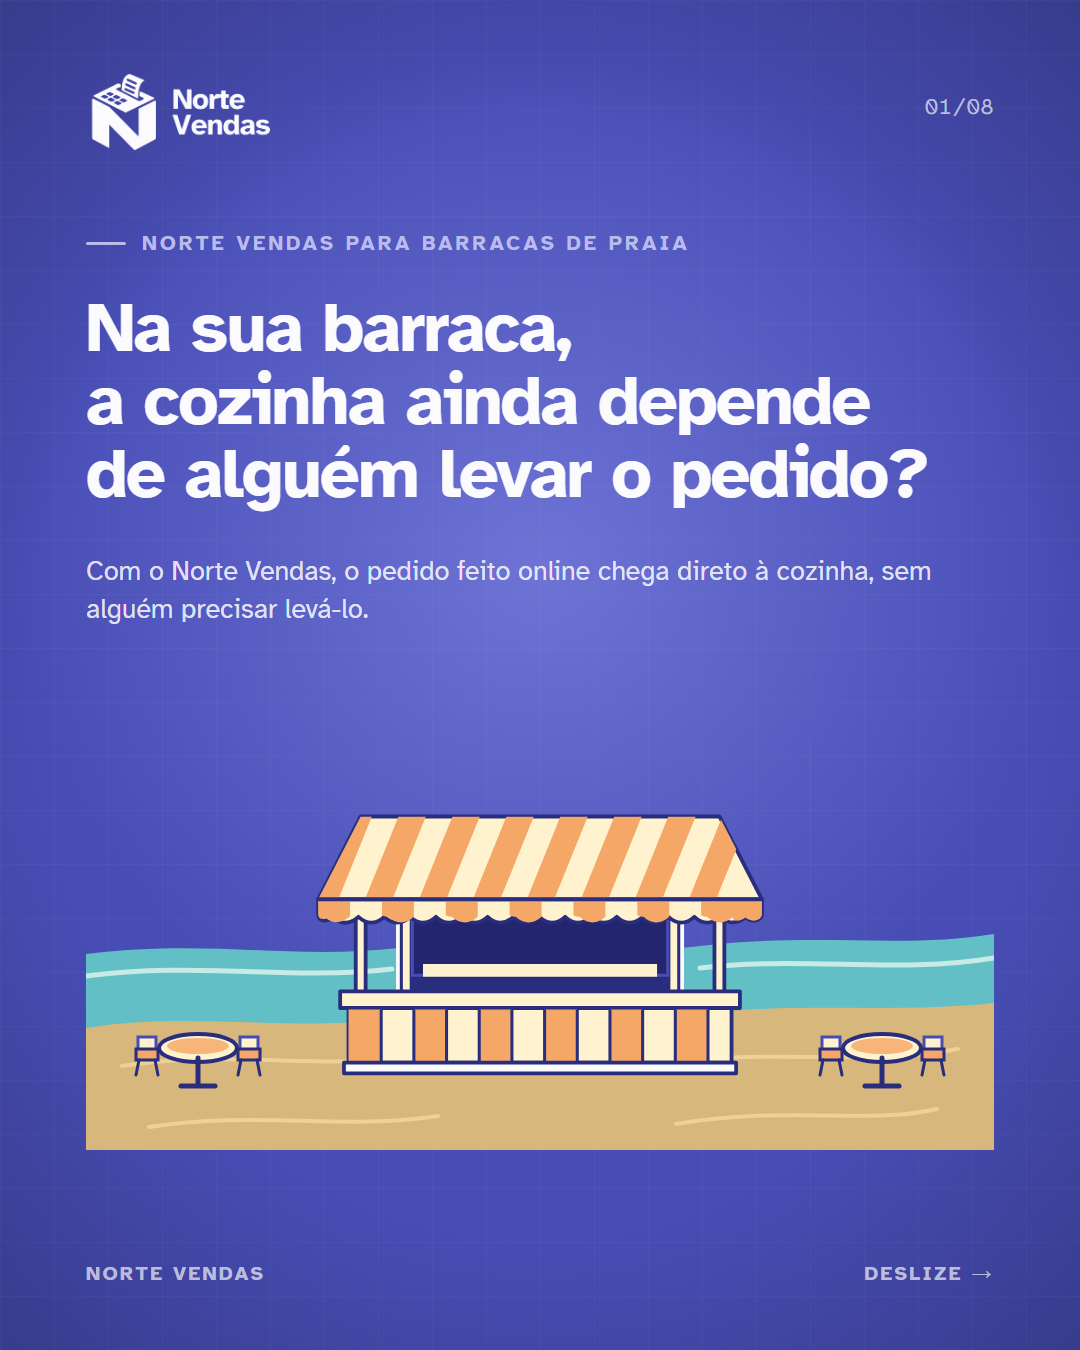
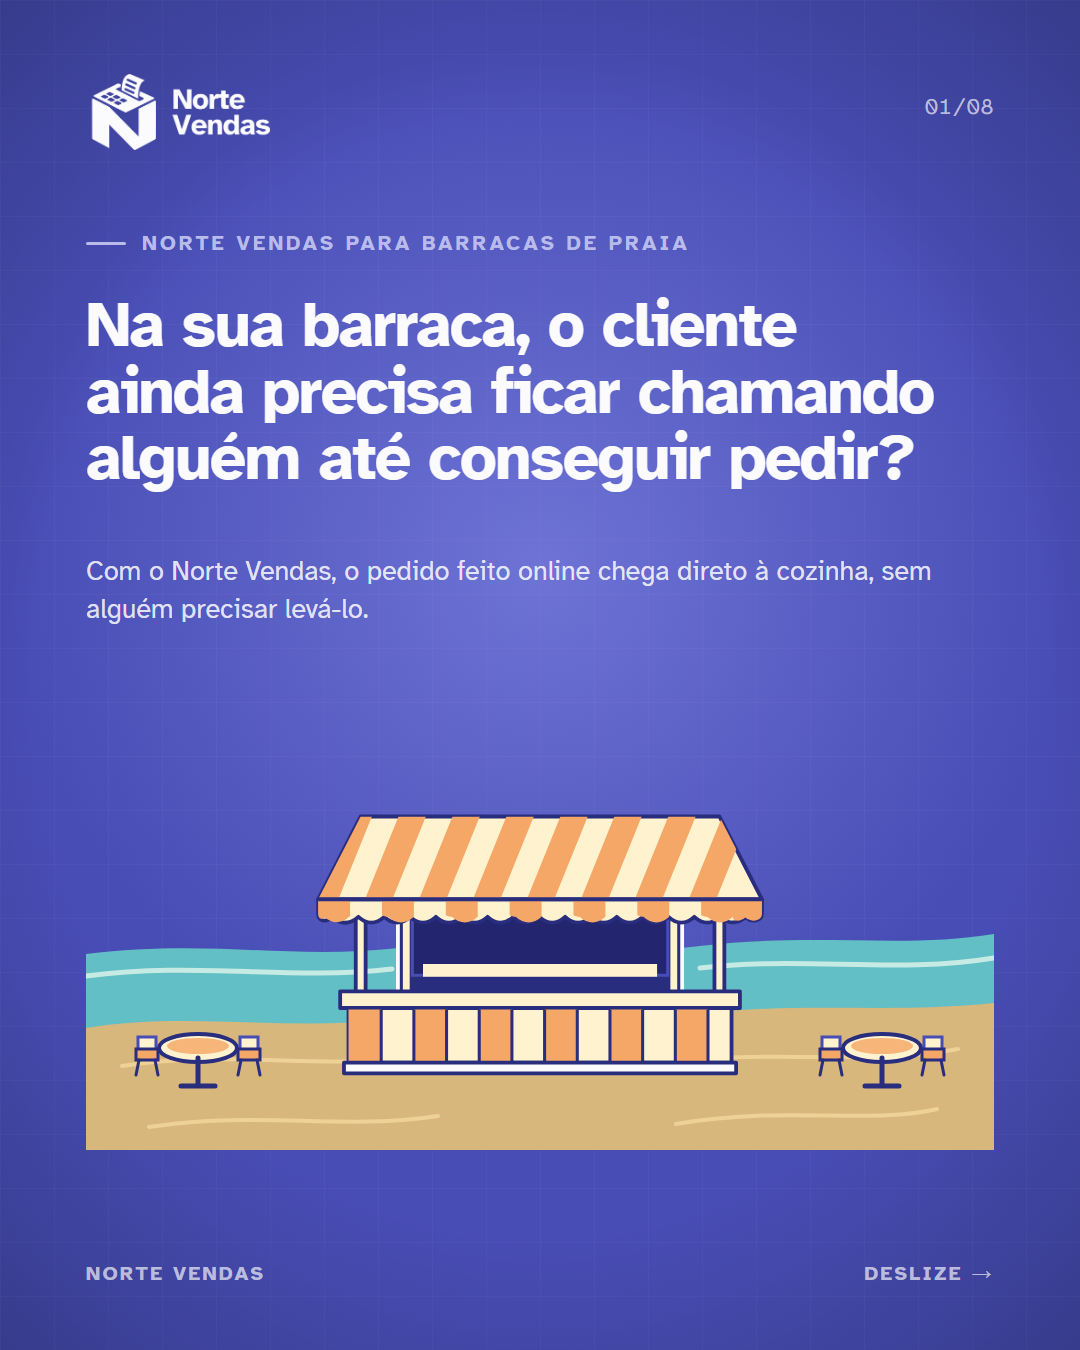
Atualiza gancho da capa para barracas de praia

Changed region(s): [[0.0611, 0.2178, 0.8861, 0.3733]]

diff --git a/src/templates/NorteVendasBarracaPraia.tsx b/src/templates/NorteVendasBarracaPraia.tsx
@@ -180,8 +180,8 @@ const CoverScene: React.FC = () => {
     <Img src={SALES_LOGO} style={{position: 'absolute', left: PAD, top: 74, height: 76, width: 'auto'}} />
     <span style={{position: 'absolute', right: PAD, top: 92, fontFamily: MONO, fontSize: 22, color: mute('product')}}>01/08</span>
     <Eyebrow tone="product" top={230}>Norte Vendas para barracas de praia</Eyebrow>
-    <h1 style={{position: 'absolute', left: PAD, right: PAD, top: 292, margin: 0, fontFamily: SANS, fontWeight: 700, fontSize: 70, lineHeight: 1.04, letterSpacing: -1.75, color: WHITE}}>
-      Na sua barraca,<br />a cozinha ainda depende<br />de alguém levar o pedido?
+    <h1 style={{position: 'absolute', left: PAD, right: PAD, top: 292, margin: 0, fontFamily: SANS, fontWeight: 700, fontSize: 64, lineHeight: 1.04, letterSpacing: -1.6, color: WHITE}}>
+      Na sua barraca, o cliente<br />ainda precisa ficar chamando<br />alguém até conseguir pedir?
     </h1>
     <p style={{position: 'absolute', left: PAD, top: 552, width: 890, margin: 0, fontFamily: SANS, fontSize: 27, lineHeight: 1.42, color: 'rgba(251,251,254,.86)'}}>
       Com o Norte Vendas, o pedido feito online chega direto à cozinha, sem alguém precisar levá-lo.

diff --git a/conteudo ntb/02-carrosseis/Norte Vendas - Barraca de Praia/LEIA-ME.md b/conteudo ntb/02-carrosseis/Norte Vendas - Barraca de Praia/LEIA-ME.md
@@ -4,7 +4,7 @@ Carrossel de oito slides para donos de barracas. A narrativa parte do gancho apr
 
 ## Ordem dos slides
 
-1. Capa estática, no fundo azul quadriculado, com barraca vetorial menor, balcão aberto, toldo listrado em creme e laranja e mesas com cadeiras ao redor. O gancho pergunta se a cozinha ainda depende de alguém levar o pedido; a subheadline responde que o pedido online chega direto à cozinha.
+1. Capa estática, no fundo azul quadriculado, com barraca vetorial menor, balcão aberto, toldo listrado em creme e laranja e mesas com cadeiras ao redor. O gancho aborda o cliente que precisa chamar alguém da equipe para conseguir fazer o pedido; a subheadline mostra que o pedido online chega direto à cozinha.
 2. Atendimento por toda a barraca, em fundo escuro, com um fluxo estático em três etapas: atendimento nas mesas, pedido online e preparo na cozinha. O texto acompanha esse fluxo sem prometer que pedidos nunca se perdem. Sem notebook nem captura de sistema.
 3. Capturas oficiais de Mesas & Comandas no notebook e na tela mobile, lado a lado e com entradas em momentos diferentes.
 4. Animação do pedido registrado seguindo online até a cozinha.

diff --git a/conteudo ntb/02-carrosseis/Norte Vendas - Barraca de Praia/COPY.md b/conteudo ntb/02-carrosseis/Norte Vendas - Barraca de Praia/COPY.md
@@ -2,7 +2,7 @@
 
 ## Slide 1 | Capa
 
-**Na sua barraca, a cozinha ainda depende de alguém levar o pedido?**
+**Na sua barraca, o cliente ainda precisa ficar chamando alguém até conseguir pedir?**
 
 Com o Norte Vendas, o pedido feito online chega direto à cozinha, sem alguém precisar levá-lo.
 
